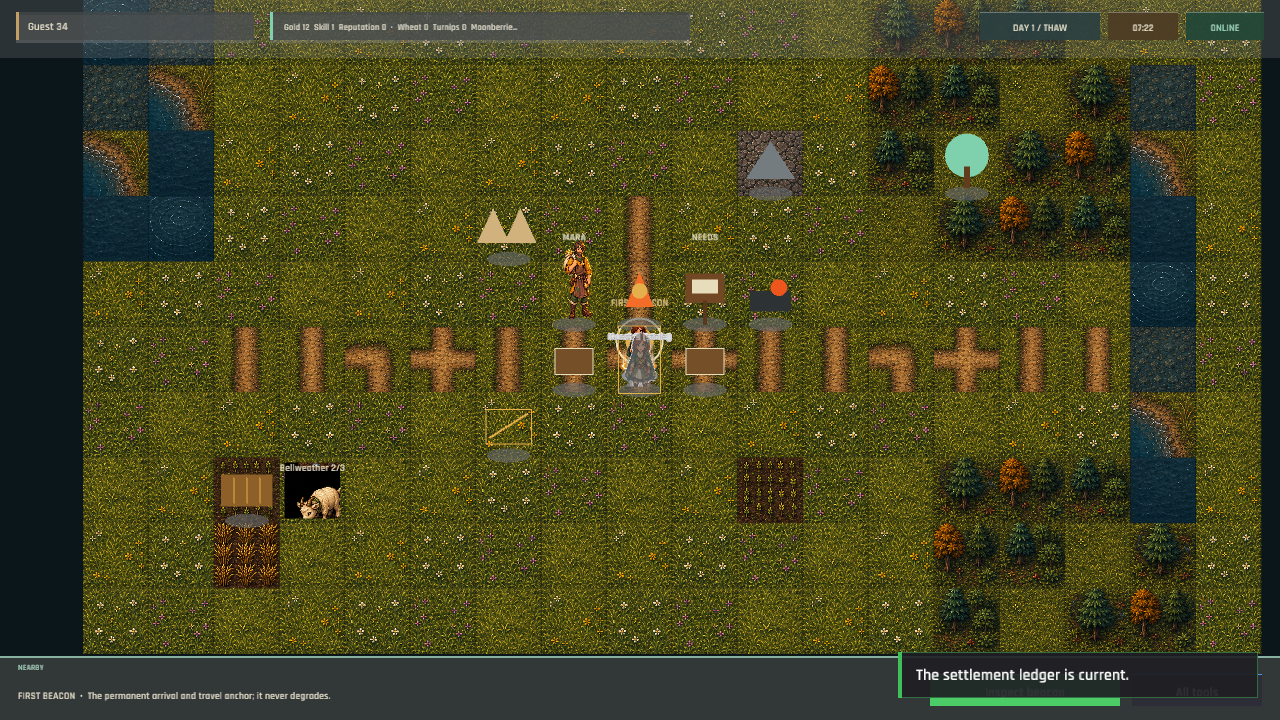
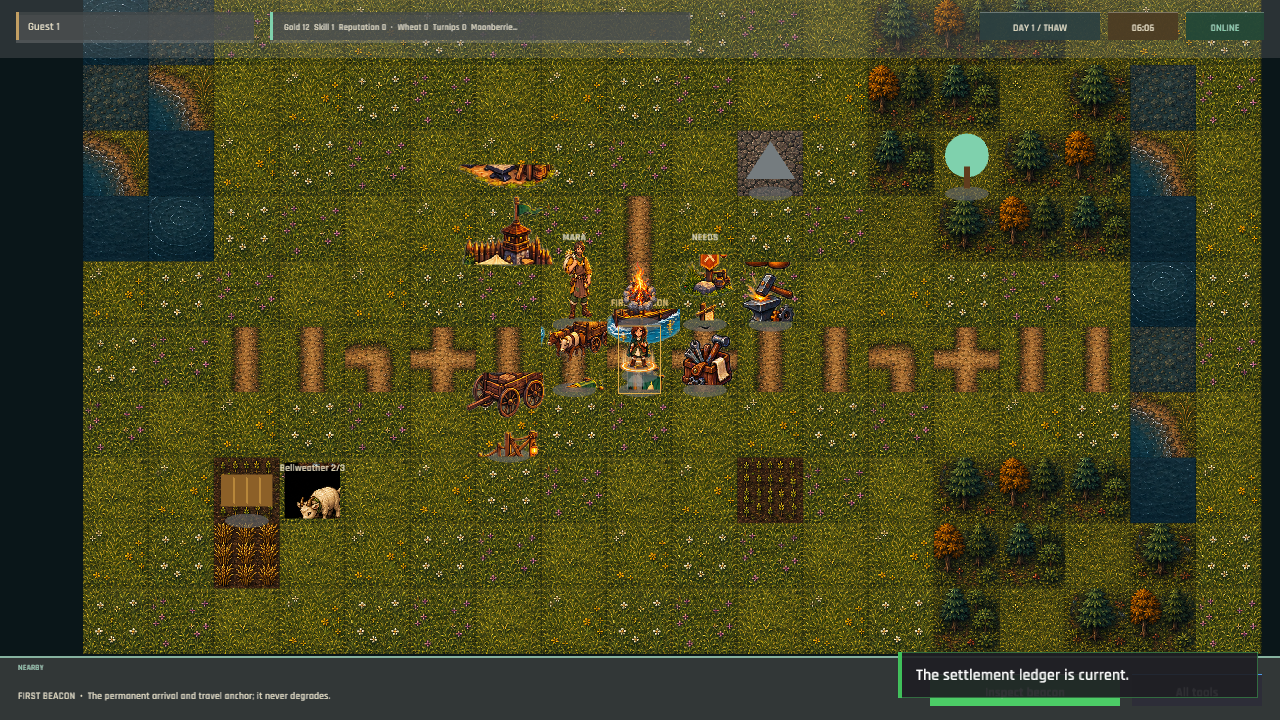
The First Beacon lays down painted campcraft (F1 world-item sprites)
The foundational camp objects were still represented by geometric map marks even though most matching production art already existed. That made the starting settlement read like debug annotation instead of a lived-in place.\n\nRoute each F1 object kind through an explicit sprite mapping, correct the settlement atlas to its real 8-by-8 grid, and retain the old shapes as missing-asset fallbacks. Reuse the settlement, economy, and UI atlases where they fit, while loading a dedicated transparent campfire sprite for the communal gathering place. Add mapping coverage and refresh the live gameplay verification capture.\n\nVerified with cargo test --workspace and .\\publish.ps1.\n\nCo-Authored-By: OpenAI Codex <noreply@openai.com>

Changed region(s): [[0.3438, 0.3361, 0.625, 0.6417], [0.3438, 0.2139, 0.4375, 0.3667], [0.875, 0.0306, 0.9062, 0.0611]]

diff --git a/src/sprites.rs b/src/sprites.rs
@@ -14,6 +14,7 @@ const TERRAIN_KEY: &str = "terrain_atlas_v2";
 const FARMING_KEY: &str = "farming_atlas";
 const PLAYER_KEY: &str = "player_atlas";
 const SETTLEMENTS_KEY: &str = "settlements_atlas";
+const FOUNDATION_FIRE_KEY: &str = "first_beacon_fire";
 const COMBAT_KEY: &str = "combat_atlas";
 const ECONOMY_KEY: &str = "items_economy_atlas";
 const UI_ICONS_KEY: &str = "ui_icons_atlas";
@@ -44,6 +45,34 @@ pub enum ItemSprite {
     Timber,
     Stone,
     Bandages,
+}
+
+#[derive(Debug, Clone, Copy, PartialEq, Eq)]
+pub enum FoundationSprite {
+    Beacon,
+    TentSettlement,
+    GatheringFire,
+    Noticeboard,
+    SharedCache,
+    ToolRack,
+    RoughForge,
+    ConstructionSite,
+}
+
+impl FoundationSprite {
+    pub fn from_kind(kind: &str) -> Option<Self> {
+        match kind {
+            "beacon" => Some(Self::Beacon),
+            "tent_settlement" => Some(Self::TentSettlement),
+            "gathering_place" => Some(Self::GatheringFire),
+            "noticeboard" => Some(Self::Noticeboard),
+            "shared_storage" => Some(Self::SharedCache),
+            "crude_tools" => Some(Self::ToolRack),
+            "rough_forge" => Some(Self::RoughForge),
+            "construction_space" => Some(Self::ConstructionSite),
+            _ => None,
+        }
+    }
 }
 
 #[derive(Debug, Clone, Copy, PartialEq, Eq)]
@@ -82,7 +111,7 @@ impl ArtAtlas {
 
     fn grid(self) -> (f32, f32) {
         match self {
-            Self::Settlements => (8.0, 6.0),
+            Self::Settlements => (8.0, 8.0),
             Self::NpcPortraits => (4.0, 2.0),
             Self::ExistingNpcs => (2.0, 1.0),
             Self::ExistingItems => (7.0, 1.0),
@@ -115,6 +144,7 @@ pub struct SpriteAssets {
     farming: Option<Texture2D>,
     player: Option<Texture2D>,
     settlements: Option<Texture2D>,
+    foundation_fire: Option<Texture2D>,
     combat: Option<Texture2D>,
     economy: Option<Texture2D>,
     ui_icons: Option<Texture2D>,
@@ -132,6 +162,7 @@ impl SpriteAssets {
             farming: assets.get_texture(FARMING_KEY).cloned(),
             player: assets.get_texture(PLAYER_KEY).cloned(),
             settlements: assets.get_texture(SETTLEMENTS_KEY).cloned(),
+            foundation_fire: assets.get_texture(FOUNDATION_FIRE_KEY).cloned(),
             combat: assets.get_texture(COMBAT_KEY).cloned(),
             economy: assets.get_texture(ECONOMY_KEY).cloned(),
             ui_icons: assets.get_texture(UI_ICONS_KEY).cloned(),
@@ -289,6 +320,40 @@ impl SpriteAssets {
         draw_region(texture, source, center, size, WHITE);
         true
     }
+
+    pub fn draw_foundation(&self, sprite: FoundationSprite, center: Vec2, tile_size: f32) -> bool {
+        let (atlas, index, scale, y_offset) = match sprite {
+            FoundationSprite::Beacon => (ArtAtlas::Settlements, 20, 1.25, -0.16),
+            FoundationSprite::TentSettlement => (ArtAtlas::Settlements, 15, 1.55, -0.22),
+            FoundationSprite::GatheringFire => return self.draw_foundation_fire(center, tile_size),
+            FoundationSprite::Noticeboard => (ArtAtlas::Settlements, 35, 1.02, -0.10),
+            FoundationSprite::SharedCache => (ArtAtlas::Settlements, 41, 1.02, -0.08),
+            FoundationSprite::ToolRack => (ArtAtlas::Economy, 9, 0.90, -0.06),
+            FoundationSprite::RoughForge => (ArtAtlas::UiIcons, 31, 0.92, -0.04),
+            FoundationSprite::ConstructionSite => (ArtAtlas::Settlements, 39, 1.30, -0.16),
+        };
+        self.draw_atlas_cell(
+            atlas,
+            index,
+            center + vec2(0.0, tile_size * y_offset),
+            vec2(tile_size * scale, tile_size * scale),
+            WHITE,
+        )
+    }
+
+    fn draw_foundation_fire(&self, center: Vec2, tile_size: f32) -> bool {
+        let Some(texture) = self.foundation_fire.as_ref() else {
+            return false;
+        };
+        draw_region(
+            texture,
+            Rect::new(0.0, 0.0, texture.width(), texture.height()),
+            center + vec2(0.0, tile_size * -0.08),
+            vec2(tile_size * 0.92, tile_size * 0.92),
+            WHITE,
+        );
+        true
+    }
 }
 
 fn draw_region(texture: &Texture2D, source: Rect, center: Vec2, size: Vec2, tint: Color) {
@@ -304,3 +369,7 @@ fn draw_region(texture: &Texture2D, source: Rect, center: Vec2, size: Vec2, tint
         },
     );
 }
+
+#[cfg(test)]
+#[path = "sprites/tests.rs"]
+mod tests;

diff --git a/src/sprites/tests.rs b/src/sprites/tests.rs
@@ -1,0 +1,21 @@
+use super::*;
+
+#[test]
+fn foundation_content_kinds_select_authored_sprite_art() {
+    let expected = [
+        ("beacon", FoundationSprite::Beacon),
+        ("tent_settlement", FoundationSprite::TentSettlement),
+        ("gathering_place", FoundationSprite::GatheringFire),
+        ("noticeboard", FoundationSprite::Noticeboard),
+        ("shared_storage", FoundationSprite::SharedCache),
+        ("crude_tools", FoundationSprite::ToolRack),
+        ("rough_forge", FoundationSprite::RoughForge),
+        ("construction_space", FoundationSprite::ConstructionSite),
+    ];
+
+    for (kind, sprite) in expected {
+        assert_eq!(FoundationSprite::from_kind(kind), Some(sprite));
+    }
+    assert_eq!(FoundationSprite::from_kind("npc"), None);
+    assert_eq!(FoundationSprite::from_kind("woodland"), None);
+}

diff --git a/src/ui_map.rs b/src/ui_map.rs
@@ -1,5 +1,5 @@
 use super::*;
-use crate::sprites::{ArtAtlas, ItemSprite, NpcSprite, SpriteAssets};
+use crate::sprites::{ArtAtlas, FoundationSprite, ItemSprite, NpcSprite, SpriteAssets};
 use crate::state::{tile_color, CropState, TileKind};
 
 pub(crate) fn draw_map(ctx: &UiContext<'_>, rect: Rect) {
@@ -140,6 +140,11 @@ fn draw_foundation_landmarks(ctx: &UiContext<'_>, view: &MapView, rect: Rect) {
 
 fn draw_foundation_icon(ctx: &UiContext<'_>, kind: &str, center: Vec2, rect: Rect) {
     let scale = rect.w.max(18.0);
+    if FoundationSprite::from_kind(kind)
+        .is_some_and(|sprite| ctx.sprites.draw_foundation(sprite, center, scale))
+    {
+        return;
+    }
     match kind {
         "npc" => {
             if !ctx.sprites.draw_npc(

diff --git a/docs/ART_ASSET_CHECKLIST.md b/docs/ART_ASSET_CHECKLIST.md
@@ -102,6 +102,8 @@ This checklist is copied from the art audit brief. An item is marked complete on
 
 ## 6. Settlements, buildings and landmarks
 
+- [x] F1 First Beacon marker, tent camp and communal fire
+- [x] F1 noticeboard, shared cache, crude-tool rack, rough forge and storehouse site
 - [x] The Hearth settlement cluster
 - [x] Hearth tavern
 - [x] Town hall
@@ -209,5 +211,5 @@ This checklist is copied from the art audit brief. An item is marked complete on
 
 ## Verification log
 
-- Generated source: nine production art families in `assets/images/sprites/`; terrain uses the versioned `terrain_atlas_v2.png` replacement after seam QA
+- Generated source: nine production art families in `assets/images/sprites/`; terrain uses the versioned `terrain_atlas_v2.png` replacement after seam QA; F1 world objects reuse authored settlement, economy and UI atlas cells, with a dedicated transparent `first_beacon_fire.png` sprite for the communal fire
 - In-game verification screenshots: `docs/verification/ui_gameplay.png`, `ui_art-terrain.png`, `ui_art-combat.png`, `ui_art-portraits.png`
